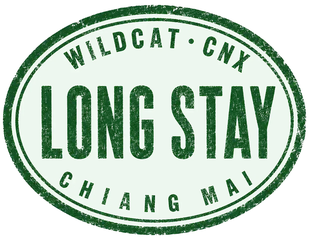
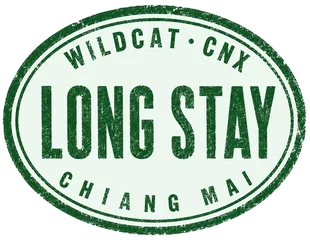
fix(fighters): die-cut stamps - keep interior fills (cream/light green)
Pipeline v3 : l'unmultiply traitait les fonds interieurs clairs comme
du blanc -> quasi transparents sur photo. Remplace par une decoupe
die-cut numpy pur : flood du blanc exterieur depuis les bords (mur
d'encre dilate 2px contre les fuites de texture), tout l'interieur du
tampon reste opaque tel que designe. 10 assets re-traites (16-27 KB).

Changed region(s): [[0.2032, 0.875, 0.2323, 0.9042]]

diff --git a/tests/process-stamp.py b/tests/process-stamp.py
@@ -1,5 +1,6 @@
 # Pipeline assets stamps du livre d'or : trim du blanc (bbox de l'encre + marge),
-# conversion blanc -> alpha (unmultiply : seule l'encre subsiste, en RGBA),
+# decoupe "die-cut" (exterieur transparent, TOUT l'interieur du tampon opaque —
+# les fonds interieurs cream/vert pale font partie du design et sont conserves),
 # resize hauteur max, export webp -> public/assets/stamps/stamp-{slug}.webp.
 # Le rendu carte ajoute un halo blanc (drop-shadow) pour la lisibilite sur photo.
 # Usage : python tests/process-stamp.py "<input>" <slug>
@@ -7,7 +8,7 @@ import sys
 from pathlib import Path
 
 import numpy as np
-from PIL import Image
+from PIL import Image, ImageFilter
 
 # L'encre est rendue a ~56px de haut ; 240px = marge retina x4 confortable.
 MAX_HEIGHT = 240
@@ -26,18 +27,61 @@ def flatten_on_white(img: Image.Image) -> Image.Image:
     return img.convert("RGB")
 
 
-def white_to_alpha(img: Image.Image) -> Image.Image:
-    """Unmultiply depuis un fond blanc : alpha = 1 - min(R,G,B)/255,
-    couleur = (C - (1-a)*255) / a. Composite sur blanc == source exacte ;
-    sur fond sombre, seule l'encre apparait (vrai tampon)."""
-    arr = np.asarray(img, dtype=np.float64) / 255.0
-    alpha = 1.0 - arr.min(axis=2)
-    safe = np.maximum(alpha, 1e-6)[..., None]
-    color = (arr - (1.0 - alpha[..., None])) / safe
-    color = np.clip(color, 0.0, 1.0)
-    color[alpha < 1e-3] = 0.0
-    out = np.dstack([color, alpha[..., None]])
-    return Image.fromarray((out * 255.0 + 0.5).astype(np.uint8), "RGBA")
+def _spread(mask: np.ndarray) -> np.ndarray:
+    """Dilatation binaire 4-connexe d'1 pixel (numpy pur)."""
+    return (
+        mask
+        | np.roll(mask, 1, 0)
+        | np.roll(mask, -1, 0)
+        | np.roll(mask, 1, 1)
+        | np.roll(mask, -1, 1)
+    )
+
+
+def die_cut_alpha(img: Image.Image) -> Image.Image:
+    """Decoupe die-cut : flood du blanc exterieur depuis les bords de l'image,
+    tout le reste (bordure + fond interieur clair + texture) reste opaque.
+    Les fonds interieurs (cream, vert pale) sont conserves tels quels."""
+    arr = np.asarray(img, dtype=np.uint8)
+    ink = arr.min(axis=2) < 252  # tout pixel non quasi-blanc
+
+    # Ferme les trous d'encre de la bordure (texture tamponnee) pour que le
+    # flood exterieur ne fuie pas a l'interieur du tampon.
+    wall = ink
+    for _ in range(2):
+        wall = _spread(wall)
+    background = ~wall
+
+    # Flood de l'exterieur : graines = pixels de fond touchant les bords
+    ext = np.zeros_like(background)
+    ext[0, :] = background[0, :]
+    ext[-1, :] = background[-1, :]
+    ext[:, 0] |= background[:, 0]
+    ext[:, -1] |= background[:, -1]
+    while True:
+        grown = _spread(ext) & background
+        grown |= ext
+        if np.array_equal(grown, ext):
+            break
+        ext = grown
+
+    inside = ~ext
+    # Compense la dilatation du mur (sinon 2px de frange blanche autour)
+    for _ in range(2):
+        inside = (
+            inside
+            & np.roll(inside, 1, 0)
+            & np.roll(inside, -1, 0)
+            & np.roll(inside, 1, 1)
+            & np.roll(inside, -1, 1)
+        )
+
+    alpha = Image.fromarray((inside * 255).astype(np.uint8), "L").filter(
+        ImageFilter.GaussianBlur(0.8)
+    )
+    out = img.convert("RGBA")
+    out.putalpha(alpha)
+    return out
 
 
 def process(src: Path, slug: str) -> Path:
@@ -64,7 +108,7 @@ def process(src: Path, slug: str) -> Path:
         ratio = MAX_HEIGHT / img.height
         img = img.resize((round(img.width * ratio), MAX_HEIGHT), Image.LANCZOS)
 
-    img = white_to_alpha(img)
+    img = die_cut_alpha(img)
 
     OUT_DIR.mkdir(parents=True, exist_ok=True)
     out = OUT_DIR / f"stamp-{slug}.webp"
